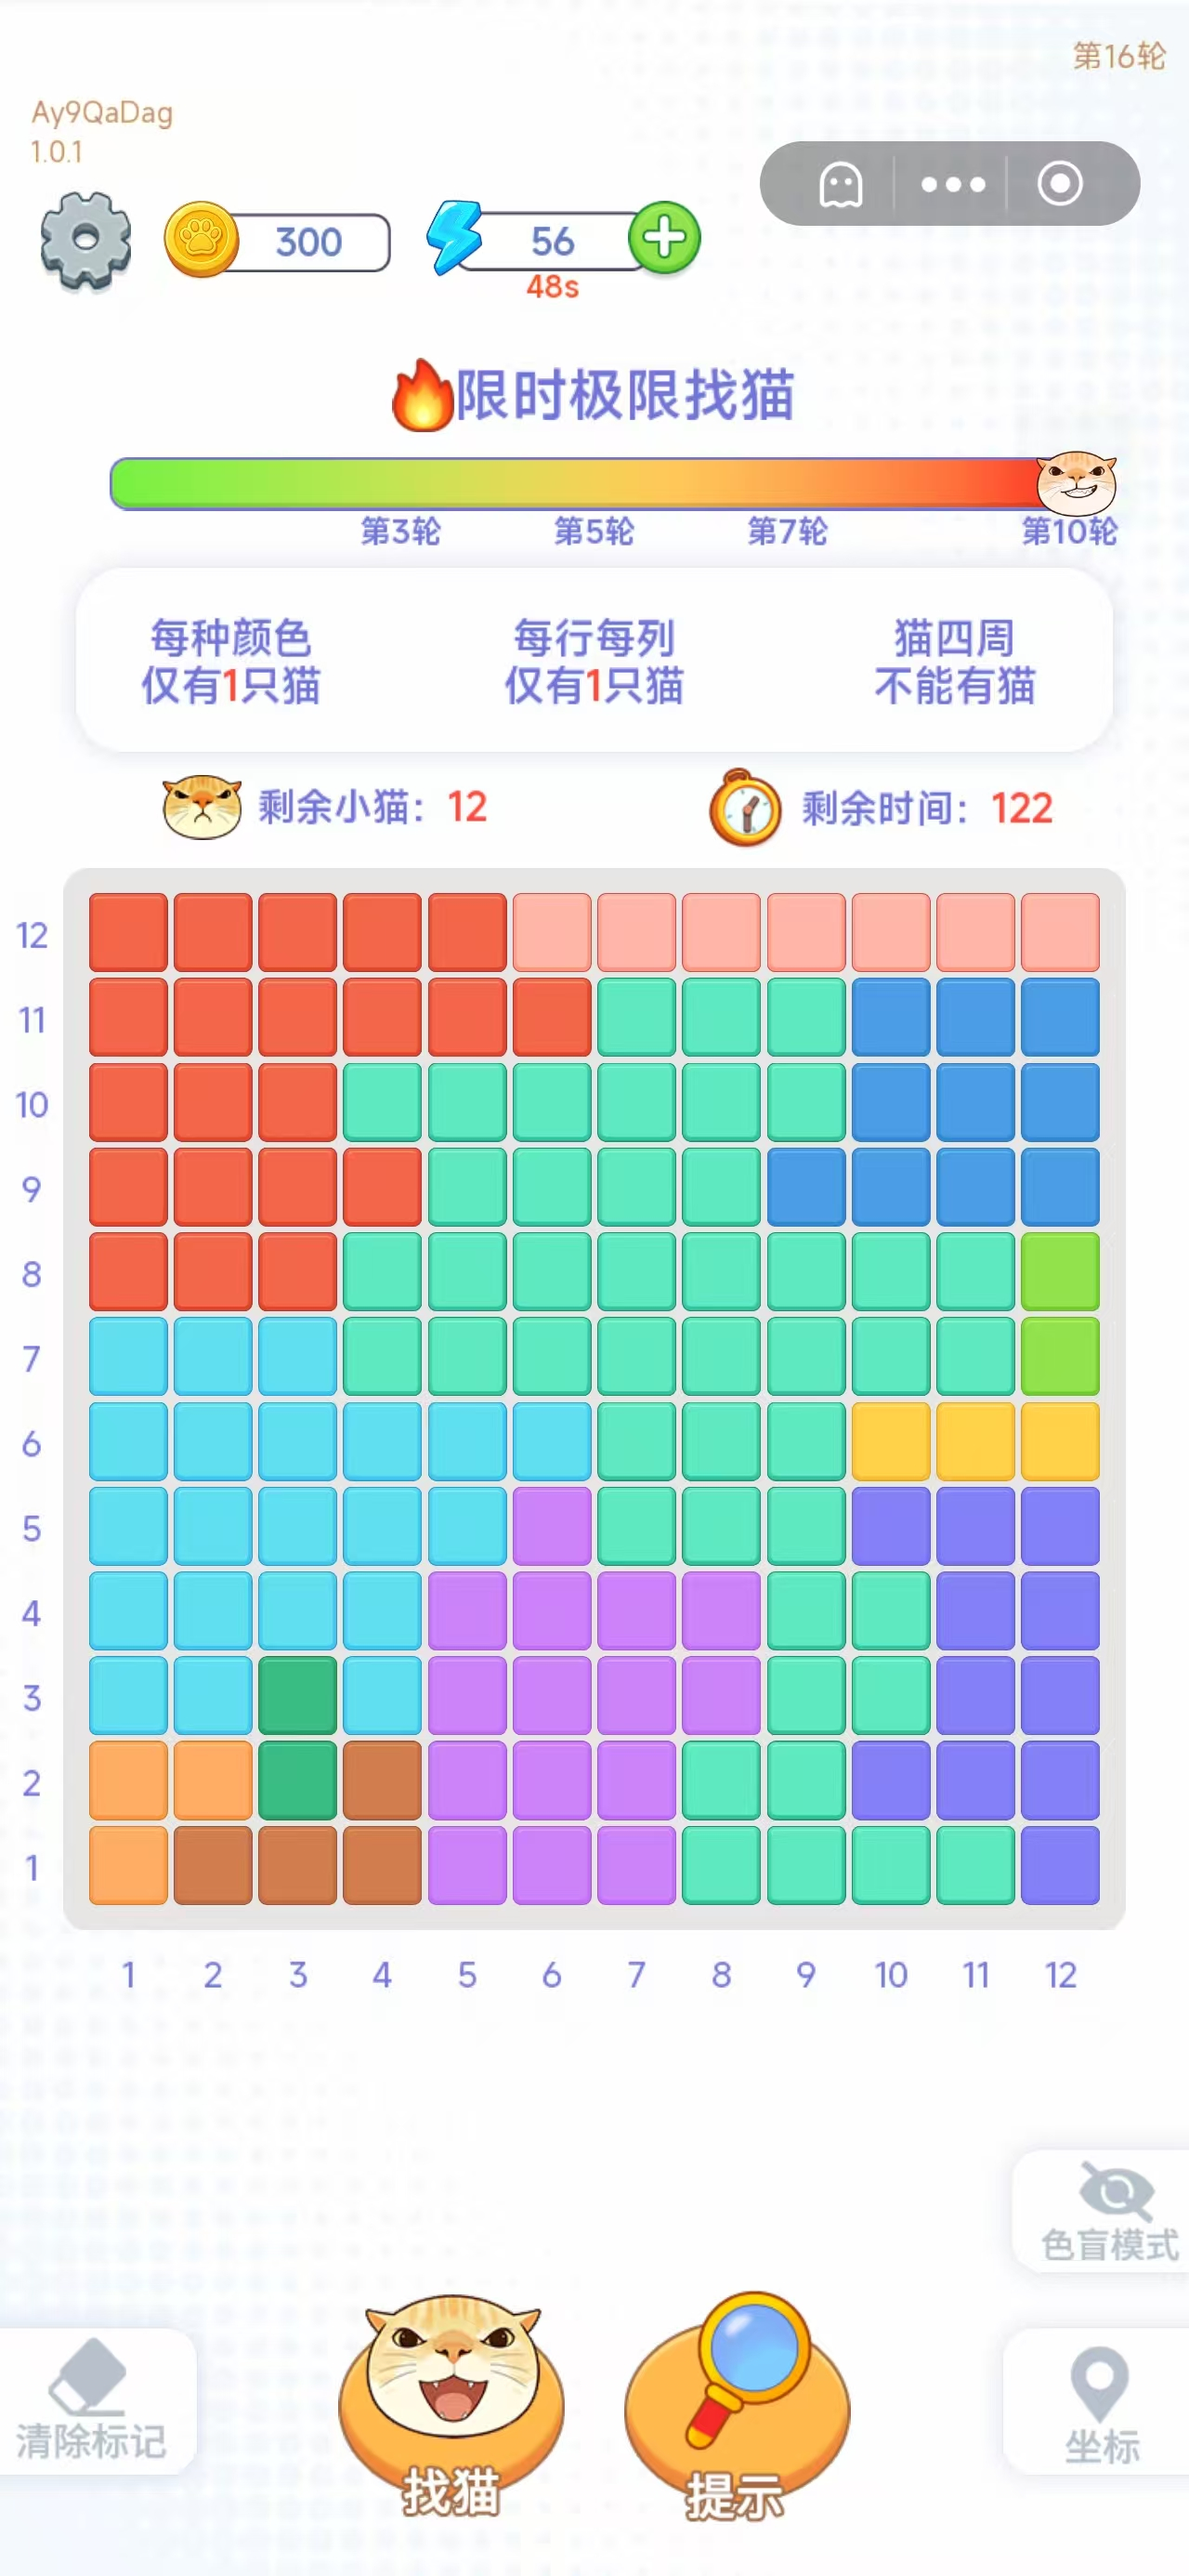
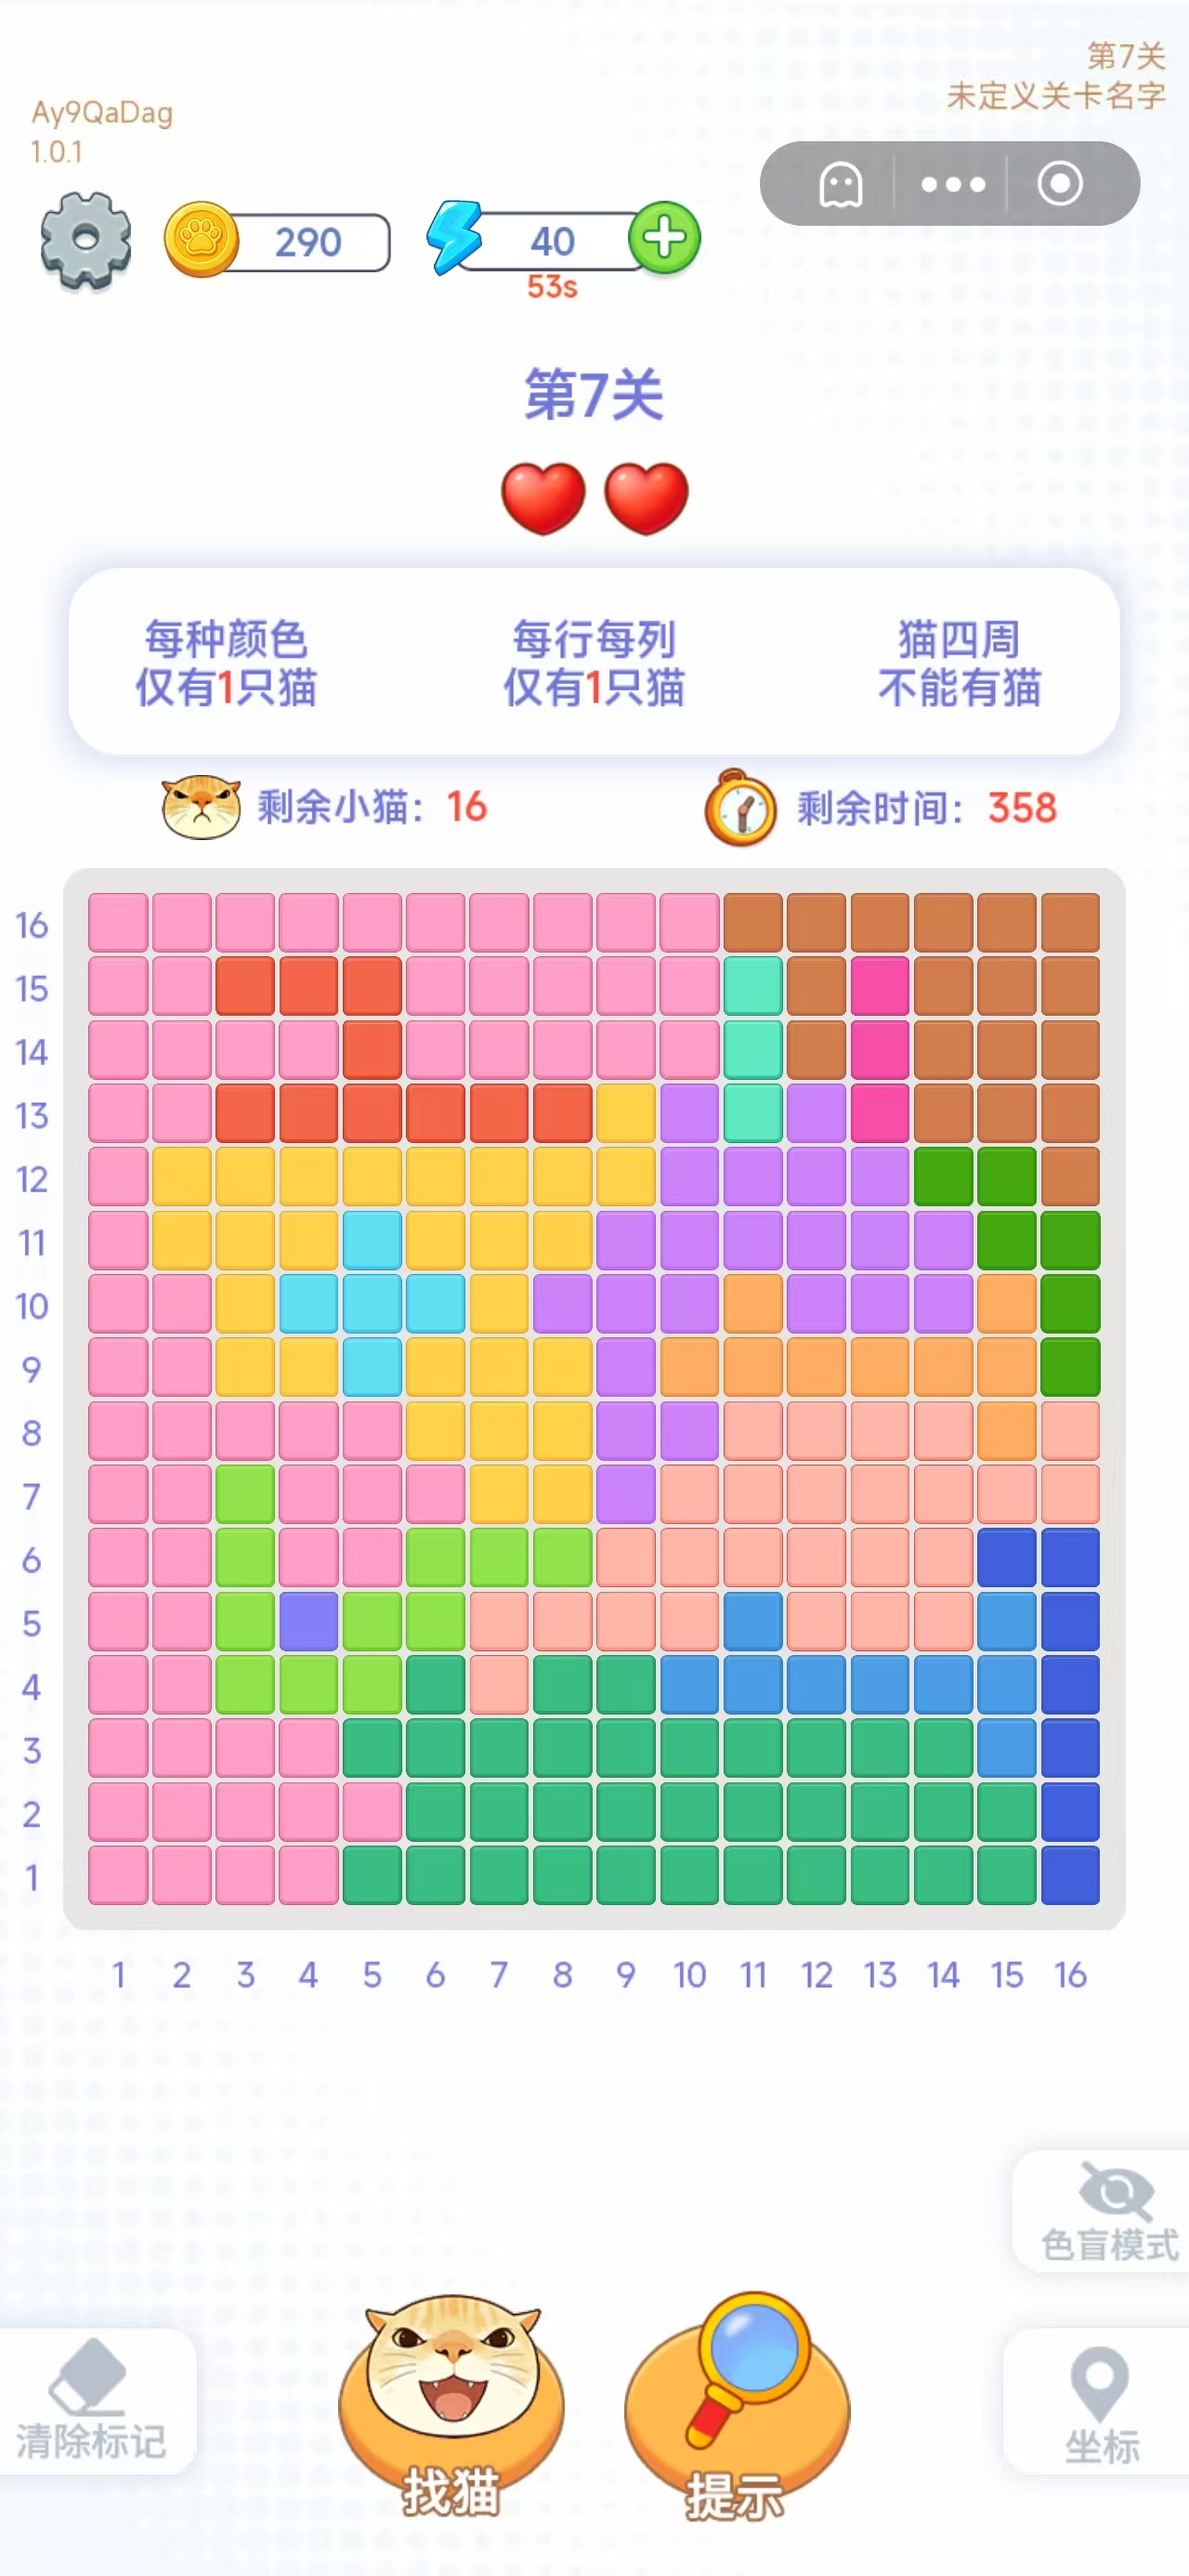
chore: 精简示例截图并加强版权声明
素材精简:
- example/ 只保留 3 张有代表性的截图, 重命名为 example01~03:
  01 = 原尺寸 16x16(格线法), 02 = 缩小版 12x12(周期法兜底), 03 = 6x6(带预亮猫遮挡)
- 删除其余 12 张完整游戏截图, 仓库体积从约 10 MB 降到约 1.5 MB
- README 增加三张图的对照表格, 并修正相关张数表述

版权声明:
- README「关于游戏」新增独立「声明」小节, 明确:
  第三方工具、未获授权或认可; 不含游戏本体/资源/外挂/绕过付费等功能;
  程序不联网不上传截图; 玩法规则本身不受著作权保护;
  截图仅在技术演示意义上少量引用
- LICENSE 顶部新增 SCOPE / 适用范围 段(中英双语):
  MIT 仅覆盖 docs/ 与 py-version/ 下的源代码, 明确不覆盖 example/ 下的游戏截图,
  以及游戏名称/商标/图标归各自权利人所有
- 网页端「规则与说明」补充免责说明, 页脚改为「源代码 MIT License」
- style.css 增加 .note.small 样式

验证: 三张示例均正常求解(16x16 格线 / 12x12 周期 / 6x6 遮挡回填),
编码无 BOM 无乱码, JS 语法通过。

diff --git a/docs/index.html b/docs/index.html
@@ -57,7 +57,12 @@
       </p>
       <p class="note">
         适用于「找猫」类关卡：<a href="https://play.google.com/store/apps/details?id=com.oakever.meowdoku" target="_blank" rel="noopener">Meowdoku</a>
-        以及【数独爱消消】（哔哩哔哩 / 微信小程序）。第三方工具，与上述游戏无关联。
+        以及【数独爱消消】（哔哩哔哩 / 微信小程序）。
+      </p>
+      <p class="note small">
+        本页是第三方工具，与上述游戏及其开发者、发行商无任何关联，未获授权或认可。
+        程序完全在浏览器本地运行，不联网、不上传截图、不修改游戏，也不提供任何破解或绕过功能。
+        游戏名称与商标归各自权利人所有。
       </p>
     </section>
   </aside>
@@ -65,7 +70,7 @@
 
 <footer class="foot">
   <a href="https://github.com/22ABLE22/catspotter" target="_blank" rel="noopener">源码仓库</a>
-  · MIT License
+  · 源代码 MIT License
 </footer>
 
 <script type="module" src="app.js"></script>

diff --git a/docs/style.css b/docs/style.css
@@ -48,6 +48,7 @@ main {
 
 .h2 { margin: 0 0 8px; font-size: 15px; }
 .note { margin: 0; color: var(--muted); font-size: 13px; }
+.note.small { font-size: 12px; line-height: 1.5; opacity: .85; }
 .hidden { display: none !important; }
 
 /* ---------------- 上传区 ---------------- */

diff --git a/README.md b/README.md
@@ -19,9 +19,19 @@
 棋盘由 n×n 个纯色格子组成（共 n 种颜色，每种颜色连成一片），需要在其中找出 n 只小猫。
 本工具的输入就是这类关卡的游戏截图，与具体平台无关——手机截图、模拟器截图都可以。
 
-- 本项目是第三方的辅助求解工具，与上述游戏及其开发者**没有任何关联**，仅供个人学习与娱乐使用。
-- 仓库 `example/` 中的截图取自该玩法的游戏画面，仅用于演示识别与求解效果。
-- 游戏玩法与相关素材的权利归其原作者所有。
+### 声明
+
+- 本项目是**第三方**辅助工具，与上述游戏及其开发者、发行商**没有任何关联**，
+  未获其授权、认可或赞助，仅供个人学习与娱乐使用。
+- **本项目不含也不提供**：游戏本体、游戏资源文件、修改版/破解版、外挂，
+  以及任何绕过付费、广告或验证的功能。程序不联网、不上传截图、不与游戏进程交互；
+  它只做一件事——读取你提供的截图，算出猫的坐标。
+- **玩法不受著作权保护**：本工具实现的是"每色/每行/每列各一只、八邻不相邻"这一通用逻辑谜题规则
+  （同类玩法在 Star Battle 等谜题中已存在多年），规则本身不属于著作权保护的客体。
+- **截图素材**：`example/` 下的截图取自该玩法的游戏画面，其著作权归原开发者/发行商所有。
+  本项目仅在"技术演示"意义上少量引用，**不随本项目的 MIT 许可授权**，
+  详见下方[许可证](#许可证)一节。如权利人认为引用不当，请通过 Issues 联系，我会立即移除。
+- 文中提及的游戏名称、商标、图标等，归各自权利人所有，仅作说明性使用。
 
 ## 规则
 
@@ -51,7 +61,13 @@ python solver.py 截图.jpg --json          # JSON 输出(方便程序调用)
 solve.bat 截图.jpg                        # Windows 下一键运行
 ```
 
-`example/` 目录下提供 15 张示例截图，可直接试用：
+`example/` 目录下提供 3 张示例截图，覆盖三种典型情况：
+
+| 文件 | 棋盘 | 说明 |
+| --- | --- | --- |
+| `example01.jpg` | 16 × 16 | 原尺寸截图，走"格线法" |
+| `example02.jpg` | 12 × 12 | 被缩小过的截图，格线被压糊，走"周期法"兜底 |
+| `example03.jpg` | 6 × 6 | 带游戏预亮的一只猫（猫脸盖住格子颜色），走遮挡回填 |
 
 ```
 python py-version/solver.py example/example01.jpg --mark
@@ -144,9 +160,10 @@ python py-version/solver.py example/example01.jpg --mark
    遮挡压力测试（把不同格子逐一涂成灰白图标）从 2/6 通过提升到 5/6，
    唯一失败的是一次性遮住"全图只有 1 格"的稀有颜色，属信息论上不可恢复。
 
-修正后，仓库里 15 张示例（12 张原始尺寸 8×8 ~ 16×16、2 张被缩小到 560px 左右的截图、
+修正后，开发期测试过的 15 张示例（8×8 ~ 16×16、含 2 张被缩小到 560px 左右的截图、
 1 张带预亮猫遮挡的 6×6）全部一次命中并解出唯一解；
 另外把 5 张原图压到 560px 做压力测试，也都一次解出、且坐标与原图完全一致。
+仓库中只保留了 3 张有代表性的截图（见上文"命令行版"表格）。
 
 ## 目录结构
 
@@ -159,14 +176,24 @@ python py-version/solver.py example/example01.jpg --mark
 ├── py-version/           # 命令行版
 │   ├── solver.py
 │   └── solve.bat
-├── example/              # 15 张示例截图(含 2 张缩小版、1 张带预亮猫遮挡)
+├── example/              # 3 张示例截图(原尺寸 / 缩小版 / 带预亮猫遮挡)
 ├── LICENSE
 └── README.md
 ```
 
 网页版的 `cat-solver.js` 与 `py-version/solver.py` 是同一套算法：
-已在全部示例截图上逐例比对（含裁剪外框、尝试次数），两者的 n、唯一性与全部坐标完全一致。
+已在示例截图上逐例比对（含裁剪外框、尝试次数），两者的 n、唯一性与全部坐标完全一致。
 
 ## 许可证
 
-本项目采用 [MIT License](LICENSE)。
+本项目的**源代码**（`docs/` 下的 HTML/CSS/JS、`py-version/` 下的 Python 脚本）
+采用 [MIT License](LICENSE)，可自由使用、修改、分发。
+
+**MIT 许可不覆盖以下内容**：
+
+- `example/` 目录中的游戏截图。其著作权归游戏开发者/发行商所有，
+  本项目仅在"技术演示"意义上引用，未获授权，也不随本项目授权给任何人。
+  如需使用这些截图，请自行向权利人取得许可。
+- 文中提及的游戏名称、商标、图标等，归各自权利人所有。
+
+如你是权利人并认为本仓库的引用不当，请通过仓库 Issues 联系，我会立即移除相关内容。
